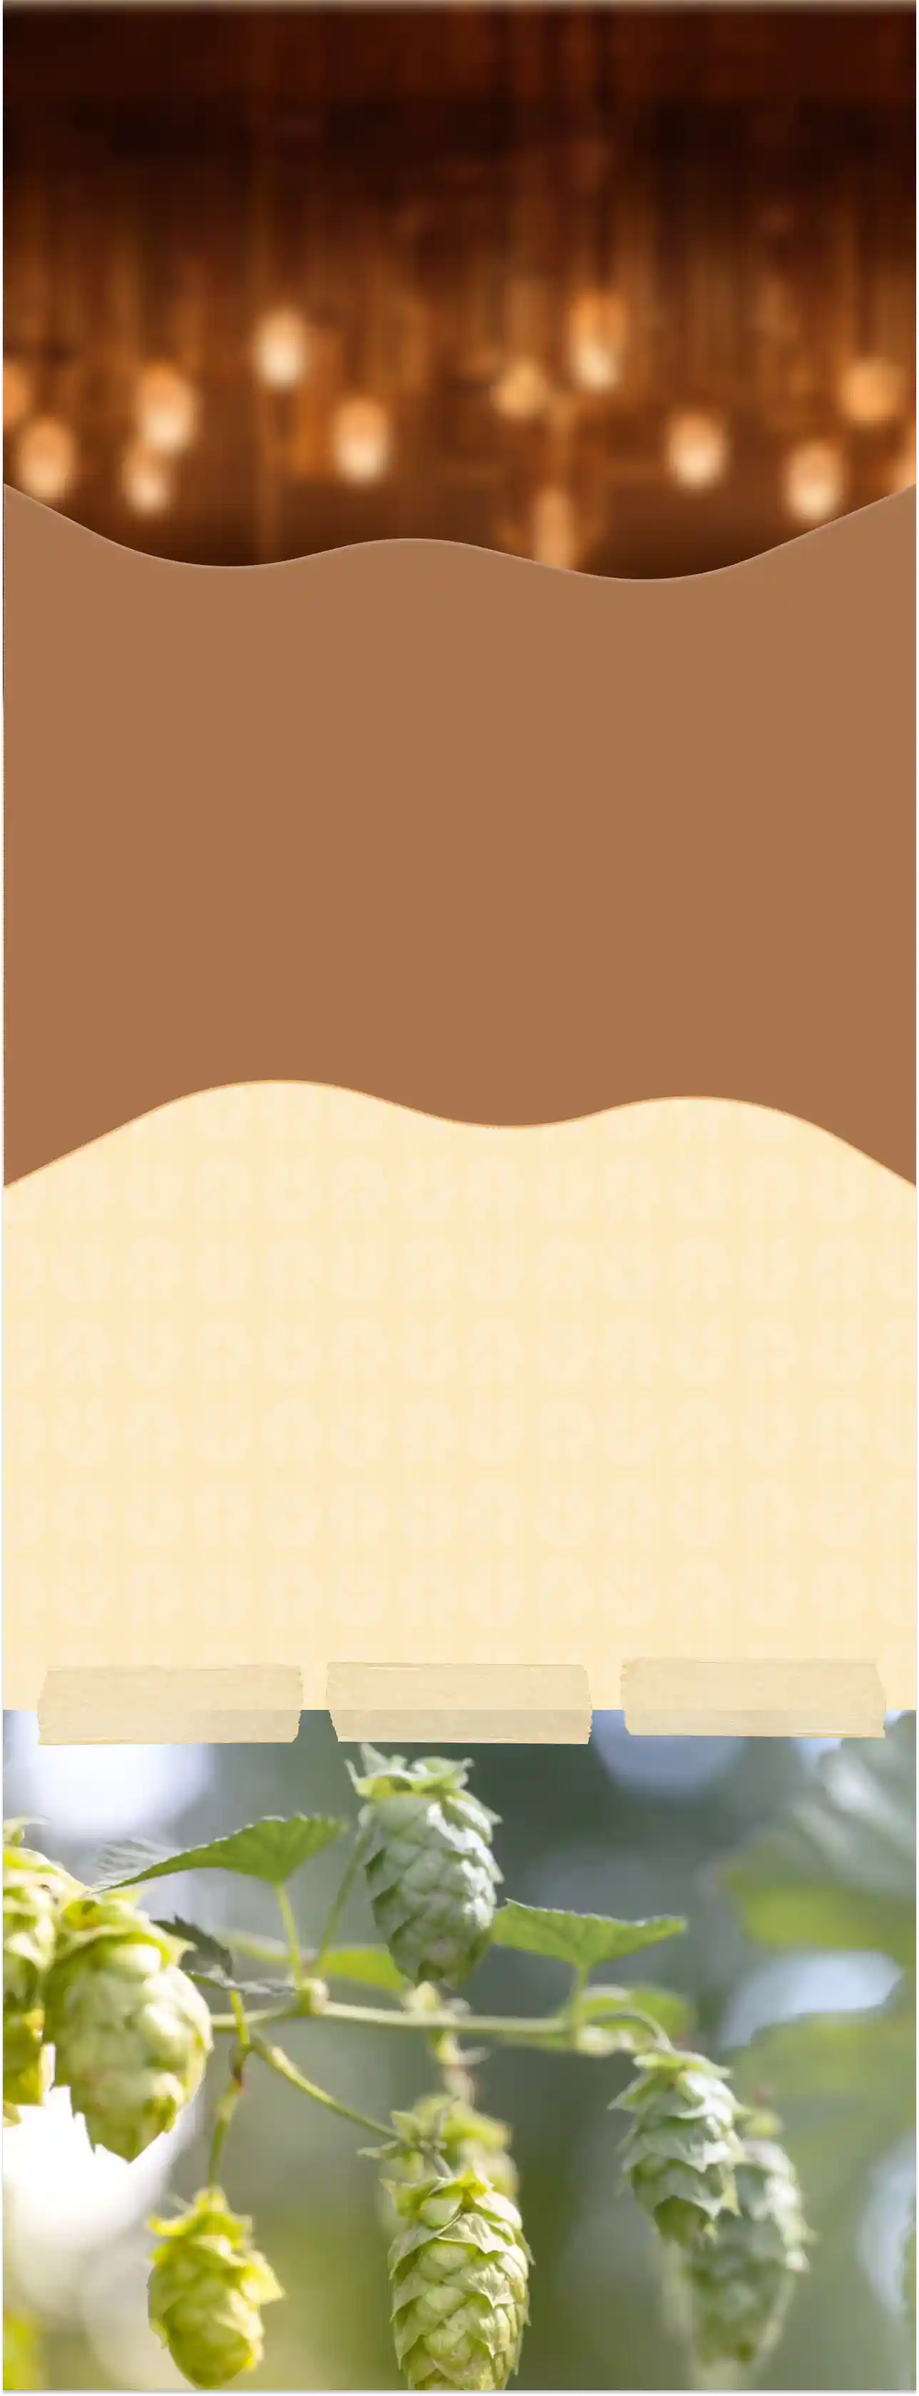
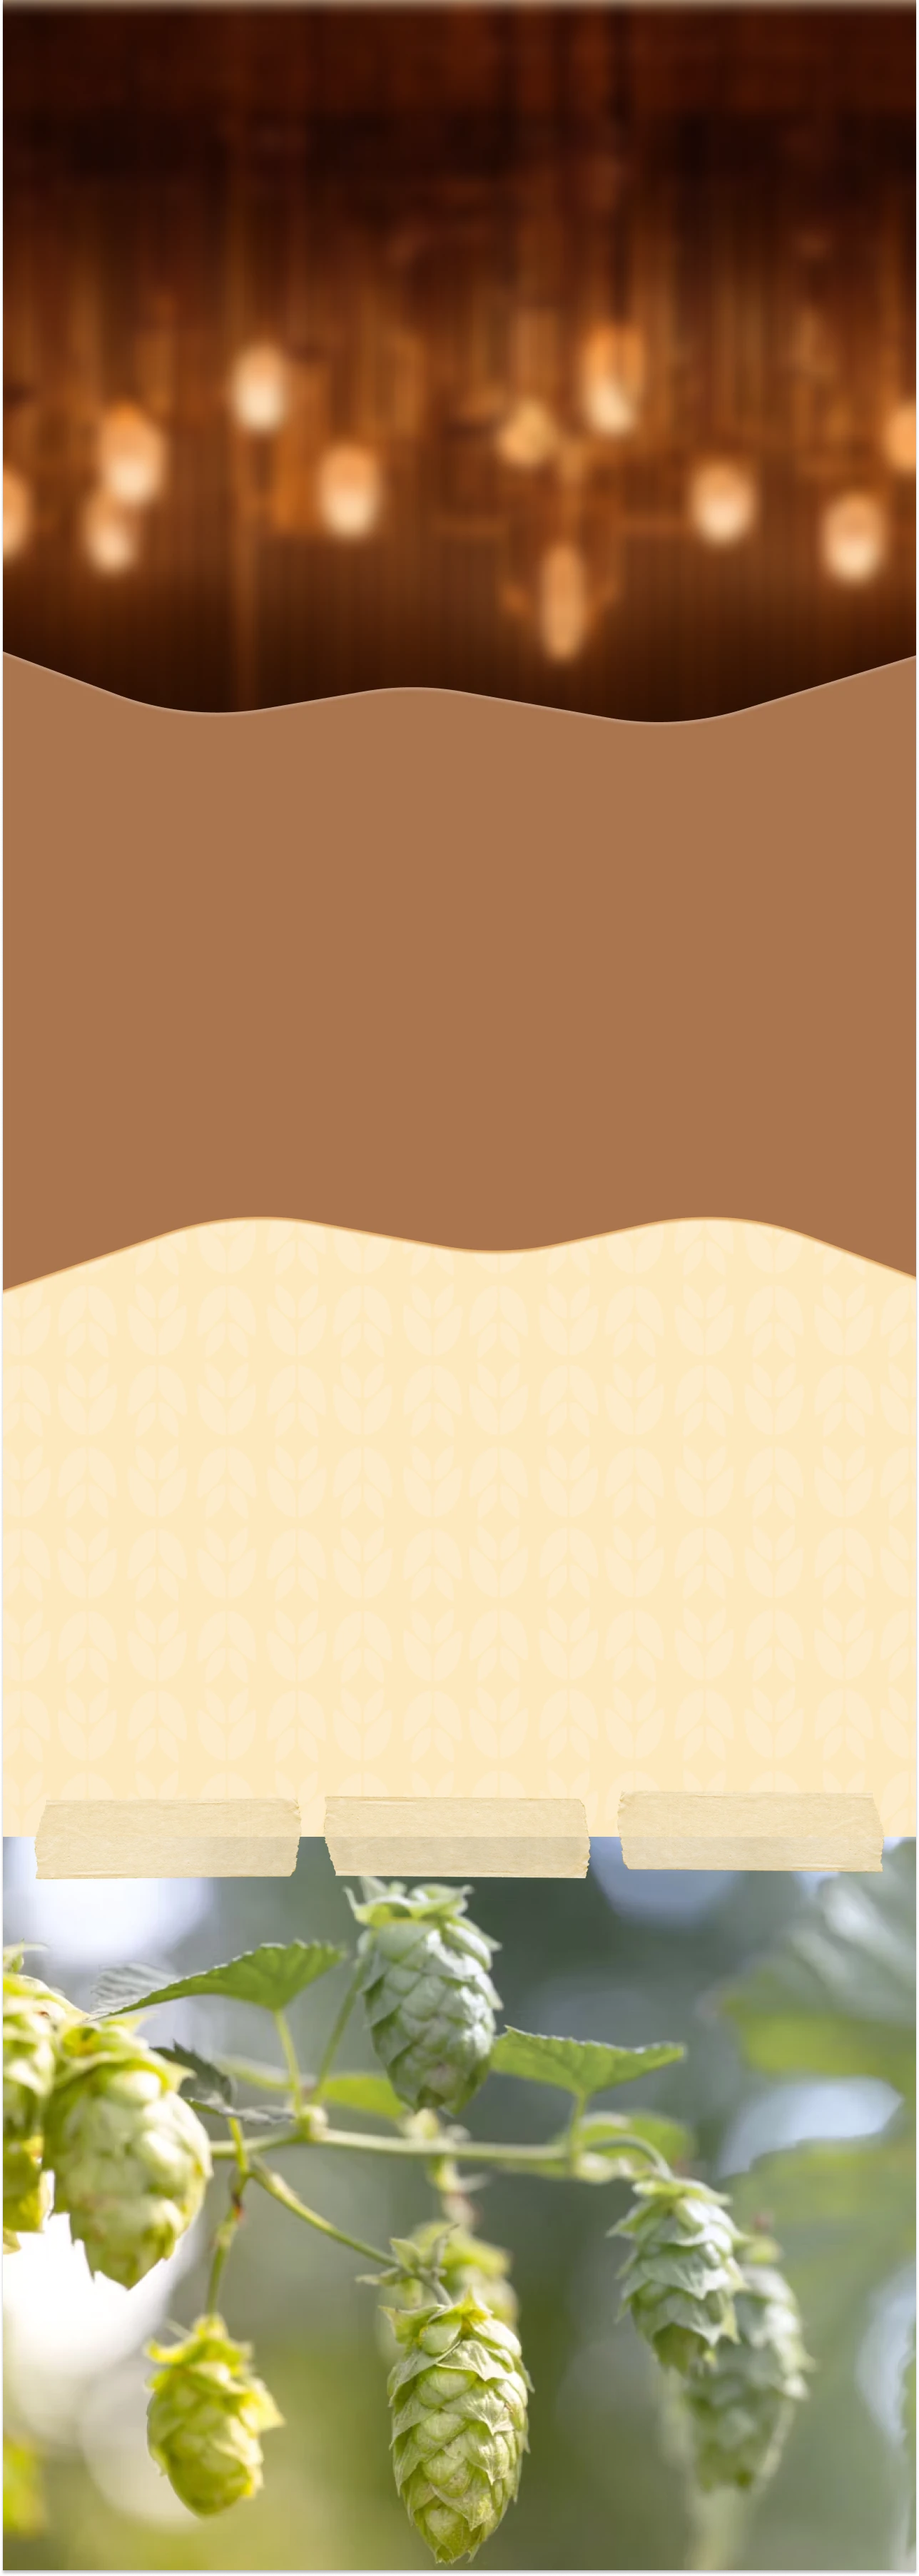
Forside sidste sektion fikset

diff --git a/index.html b/index.html
@@ -16,7 +16,7 @@
     <link rel="stylesheet" href="css/style.css">
 </head>
 <body>
-    <img class="startimg" src="img/ny-forside.png" alt="">
+    <img class="startimg" src="img/ny-forside.webp" alt="">
     <nav class="navbar">
         <a class="logo" href="index.html"><img src="img/creme-bee.svg" alt="Logo"></a>
         <ul class="nav-links">
@@ -42,12 +42,38 @@
             <p class="box-text-01">Alkoholfri øl giver dig ølsmagen uden tømmermænd! Du kan nyde festen, køre hjem sikkert og vælge et sundere alternativ med færre kalorier. Plus, der er masser af lækre varianter at vælge imellem! 🍻 </p>
         </section>
 
+
+
         <section class="box-02">
             <img class="all-cans" src="img/alle-dåserne.png" alt="">
             <p class="box-overskrift-02">Prøv vores mange smage!</p>
             <p class="box-text-02">Alkoholfri øl findes i smage som hyldeblomst, citron, lakrids, ingefær og humle – hver med sin egen specielle karakter! Hyldeblomst er frisk og blomstret, citron giver en syrlig note, lakrids er krydret og intens, ingefær giver et spicy kick, og humle leverer den klassiske ølsmag. Der er noget for enhver smag! 🍻</p>
             <a href="beer-katalog.html"><p class="order-here">Bestil her</p></a>
         </section>
+
+
+        <section class="three-boxes-container">
+            <section class="box">
+                <p class="box-overskrift">Alkoholfri for alle</p>
+                <p class="box-text">Alkoholfri øl giver dig muligheden for at nyde øloplevelsen uden alkoholens påvirkning. Det er et perfekt valg, hvis du vil være frisk, samtidig med at du hygger dig med vennerne.</p>
+                <a href="reviews.html"><p class="read-more">Læs mere</p></a>
+            </section>
+
+            <section class="box">
+                <p class="box-overskrift">Sundere valg</p>
+                <p class="box-text">Med alkoholfri øl får du en lækker smag uden at indtage alkohol og med færre kalorier. Det er ideelt for dem, der ønsker et sundere alternativ uden at gå på kompromis med kvaliteten.</p>
+                <a href="reviews.html"><p class="read-more">Læs mere</p></a>
+            </section>
+    
+            <section class="box">
+                <p class="box-overskrift">Fest uden tømmermænd</p>
+                <p class="box-text">Alkoholfri øl giver dig mulighed for at deltage i festen uden at bekymre dig om tømmermænd eller alkoholens virkninger. Du kan nyde smagen af øl, samtidig med at du holder dig klar og frisk hele dagen.</p>
+                <a href="reviews.html"><p class="read-more">Læs mere</p></a>
+            </section>
+        </section>
+
+
+        
 
     </main>
 

diff --git a/css/style.css b/css/style.css
@@ -260,6 +260,7 @@ main .order-here{
     background-color: var(--curry);
     color: var(--creme);
     font-family: roboto;
+    font-weight: 600;
     width: 8rem;
     padding: 1rem;
     font-size: 1.2rem;
@@ -275,6 +276,60 @@ main .order-here:hover{
     cursor: pointer;
 }
 
+.three-boxes-container {
+    display: grid;
+    grid-template-columns: repeat(3, 1fr);
+    gap: 3rem;
+    width: 75rem;
+    height: 25rem;
+    position: absolute;
+    top: 370%;
+    left: 50%;
+    transform: translate(-50%, -50%);
+}
+
+.box {
+    background-color: #5B3F24;
+    color: var(--creme);
+    padding: 2rem;
+    text-align: center;
+    border-radius: 1rem;
+    box-shadow: 14px 16px 2px rgba(0, 0, 0, 0.227);
+}
+
+.box-overskrift{
+    font-family: sansita;
+    font-size: 1.8rem;
+    margin-bottom: 3rem;
+}
+
+.box-text{
+    font-family: roboto;
+    font-size: 1.3rem;
+    line-height: 2rem;
+    font-weight: 300;
+}
+
+.read-more{
+    background-color: var(--curry);
+    color: var(--creme);
+    width: 8rem;
+    padding: 1rem;
+    font-family: roboto;
+    border-radius: 0.5rem;
+    text-decoration: none;
+    position: absolute;
+    top: 92%;
+    margin-left: 5.5rem;
+    font-weight: 600;
+    font-size: 1.1rem;
+    transition: ease 0.3s;
+}
+
+.read-more:hover{
+    transform: scale(1.05);
+    cursor: pointer;
+}
 
 
 
